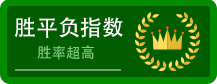
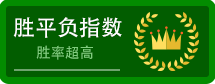
new

diff --git a/css/style.css b/css/style.css
@@ -947,21 +947,27 @@ p.nodatas {
     float: left;
     height: 42px;
 }
+.tj-hot-mode2 a {
+    width: 31%;
+    margin-left: 2%;
+    float: left;
+    height: 42px;
+}
 .tj-hot-mode1 a {
     width: 47%;
     margin-left: 2%;
     float: left;
     height: 42px;
 }
-.tj-hot-mode .icon1 {
+.tj-hot-mode2 .icon1 {
     background: url(../img/icontop01.png) no-repeat center;
     background-size: 110px;
 }
-.tj-hot-mode .icon2 {
+.tj-hot-mode2 .icon2 {
     background: url(../img/icontop02.png) no-repeat center;
     background-size: 110px;
 }
-.tj-hot-mode .icon3 {
+.tj-hot-mode2 .icon3 {
     background: url(../img/icontop03.png) no-repeat center;
     background-size: 110px;
 }
@@ -3651,7 +3657,7 @@ em.yellowRedCard {
     width: 68px;
     height: 68px;
 }
-.tj-hot-mode, .tj-hot-mode1 {
+.tj-hot-mode2, .tj-hot-mode1 {
     width: 94%;
     float: left;
     background: #fff;
@@ -3663,25 +3669,26 @@ em.yellowRedCard {
     margin-left: 3%;
 }
 .tj-hot-mode {
-    padding-bottom: 9px;
+    margin-left: 3%;
+    margin-right: auto;
 }
 .tj-hot-mode span {
-    width: 31%;
-    margin-left: 2%;
+    margin: 10px 3%;
+    width: 27%;
     float: left;
-    height: 42px;
+    height: 54px;
 }
 .tj-hot-mode span.dx {
     background: url(../img/icon-tjdx.png) no-repeat center;
-    background-size: 110px;
+    background-size: contain;
 }
 .tj-hot-mode span.spf {
     background: url(../img/icon-tjspf.png) no-repeat center;
-    background-size: 110px;
+    background-size: contain;
 }
 .tj-hot-mode span.ya {
     background: url(../img/icon-tjya.png) no-repeat center;
-    background-size: 110px;
+    background-size: contain;
 }
 .tj {
     float: left;

diff --git a/speciallist-hots.html b/speciallist-hots.html
@@ -20,7 +20,7 @@
 <body  ontouchstart=""> 
 <div id="app" v-cloak>
 <div id="loading" v-if="loading"><img src="img/nodate.png" /></div> 
-<div class="header fixed" :class="platform==1?'ios':''">  
+<div class="header fixed" style="background-color: #FFF6DB;" :class="platform==1?'ios':''">  
    <!-- <a  class="backs" v-on:click="gq.back(0)"><img src="img/back.png" /> </a> -->   
    <div class="special-nav"><span :class="index==0?'dq':''" v-on:click="changeNav(0)">热销分析师</span><span :class="index==1?'dq':''" v-on:click="changeNav(1)">热门专家</span></div>
    <div class="tj-hot-mode">
@@ -28,7 +28,7 @@
    </div>
    <div class="special-hottit"><span>排名</span> <span>用户</span> <span v-if="index==0">销量</span> <span v-else> </span></div>  
 </div>
- <div class="content2" :style="platform==1?'margin-top:160px':'margin-top:122px'">   
+ <div class="content2" :style="platform==1?'margin-top:200px':'margin-top:162px'">   
     <div class="swiper-container">
       <div class="swiper-wrapper"> 
          <div class="swiper-slide mescroll" id="mescroll1" style="position:relative;top:0px;bottom: 0;height: auto;">    
@@ -98,7 +98,7 @@
   </div> 
 </div> 
 </div>
-<script type="text/javascript"  src="js/speciallist-hots.js"></script> 
+<script type="text/javascript"  src="js/speciallist-hots_debug.js"></script> 
 <script>
   document.body.addEventListener('touchstart',function(){},false);
 </script>

diff --git a/tuijianIndex.html b/tuijianIndex.html
@@ -50,7 +50,7 @@
                         <div class="uu-subline"></div>
                     </div>
                 </div>
-                <div class="tj-hot-mode">
+                <div class="tj-hot-mode2">
                     <a v-on:click="openbill('billboard.html?type=0','tjdtphb')" class="icon1"></a>
                     <a v-on:click="openbill('billboard.html?type=1','tjdtphb')" class="icon2"></a>
                     <a v-on:click="openbill('billboard.html?type=2','tjdtphb')" class="icon3"></a>
@@ -245,7 +245,7 @@
             </div>
             <!-- <div class="tj-edit" v-on:click="fabuTj()"></div>-->
         </div>
-        <script type="text/javascript" src="js/tuijianIndex.js"></script>
+        <script type="text/javascript" src="js/tuijianIndex_debug.js"></script>
         <script>
             FastClick.attach(document.body);
             document.body.addEventListener('touchstart', function() {}, false);
